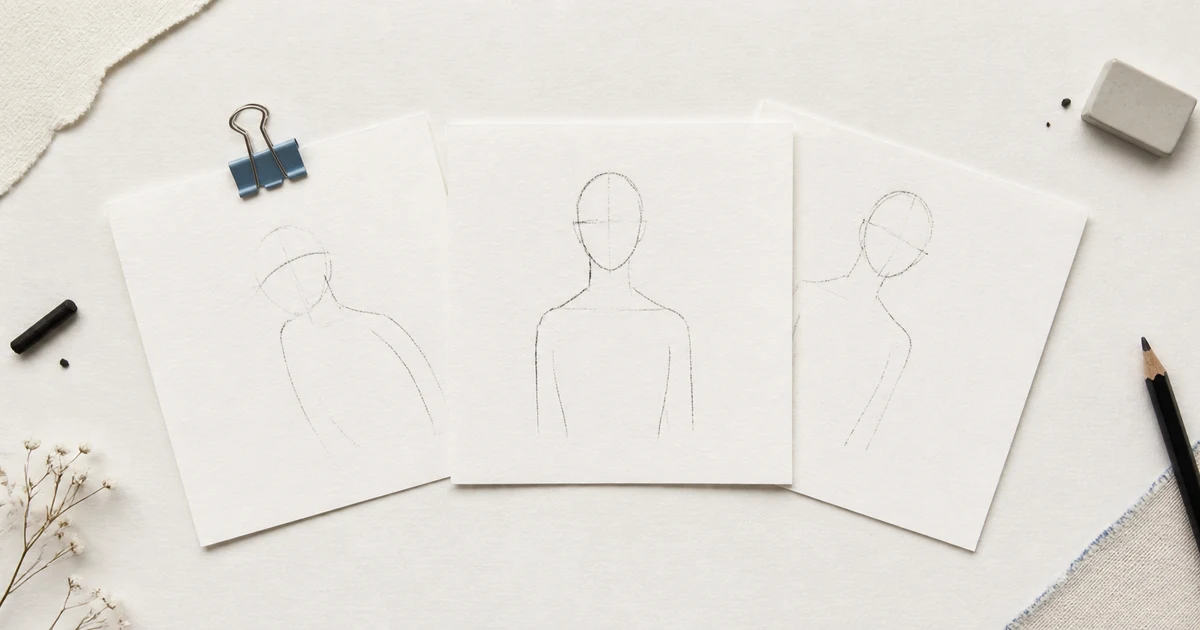
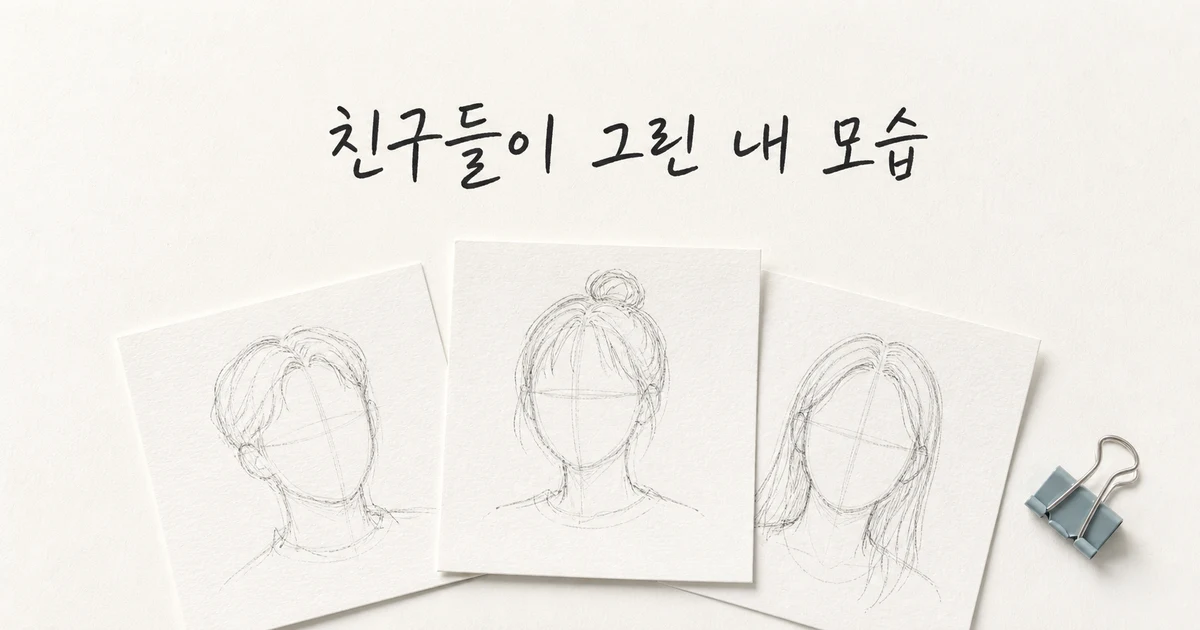
feat: add Korean text to sharing imagery

diff --git a/src/app/globals.css b/src/app/globals.css
@@ -188,7 +188,6 @@ a { color: inherit; text-decoration: none; }
 .share-shell { margin: 0 auto; max-width: 650px; padding: 24px 24px max(24px, env(safe-area-inset-bottom)); }
 .share-shell > a { color: var(--muted); display: inline-flex; min-height: 44px; align-items: center; font-size: .9rem; }
 .story-preview { aspect-ratio: 3 / 4; background-position: center; background-repeat: no-repeat; background-size: cover; border: 1px solid var(--line); margin: 16px 0; min-height: 0; overflow: hidden; position: relative; text-align: center; }
-.story-preview > p { font-size: clamp(.8rem, 3.4vw, 1.1rem); left: 5%; margin: 0; position: absolute; right: 5%; top: 6.5%; }
 .story-preview > h1 { font-size: clamp(1.35rem, 7vw, 2.8rem); left: 4%; letter-spacing: -.06em; line-height: 1.14; margin: 0; position: absolute; right: 4%; top: 11.5%; }
 .landing-copy h1, .create-intro h1, .create-complete h1, .public-intro h1, .manage-heading h1, .story-preview > h1 {
   hyphens: none;

diff --git a/src/app/m/[publicId]/share/StoryImageMaker.tsx b/src/app/m/[publicId]/share/StoryImageMaker.tsx
@@ -69,8 +69,6 @@ export function StoryImageMaker({ drawings, name, publicUrl }: StoryImageMakerPr
       context.drawImage(background, 0, 0, STORY_WIDTH, STORY_HEIGHT);
       context.fillStyle = storyStyle.ink;
       context.textAlign = 'center';
-      context.font = `600 54px ${storyStyle.fontFamily}`;
-      context.fillText('친구들이 그린 나', 540, 88);
       const title = `${name} BEST 4`;
       setFittedFont(context, title, storyStyle.fontFamily, { maxSize: 78, minSize: 28, maxWidth: 900, weight: 700 });
       context.fillText(title, 540, 180);

diff --git a/src/app/m/[publicId]/share/page.tsx b/src/app/m/[publicId]/share/page.tsx
@@ -39,7 +39,6 @@ export default async function SharePage({ params }: { params: Promise<{ publicId
           backgroundImage: `url(${storyStyle.backgroundImage})`,
         }}
       >
-        <p>친구들이 그린 나</p>
         <h1>{sketchbook.name} BEST 4</h1>
         <div className="story-best-grid">
           {[1, 2, 3, 4].map((rank) => {
